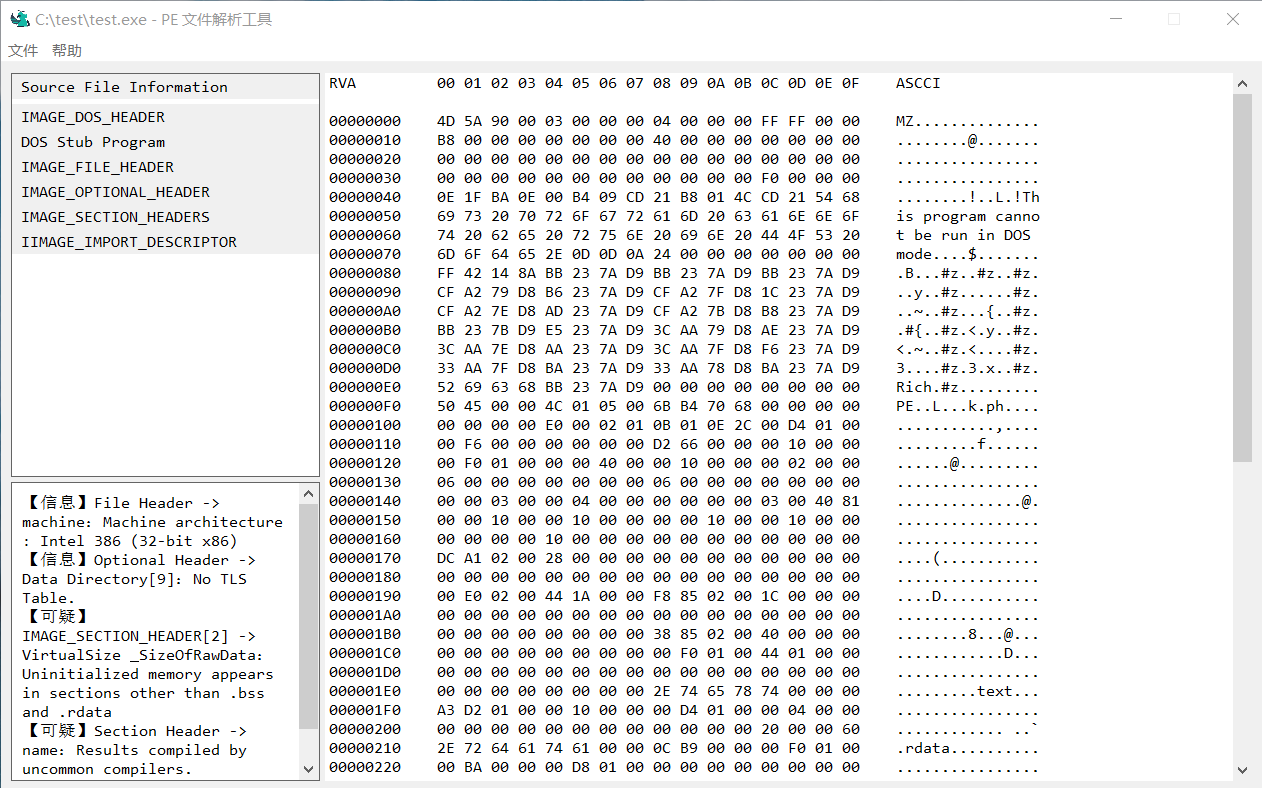
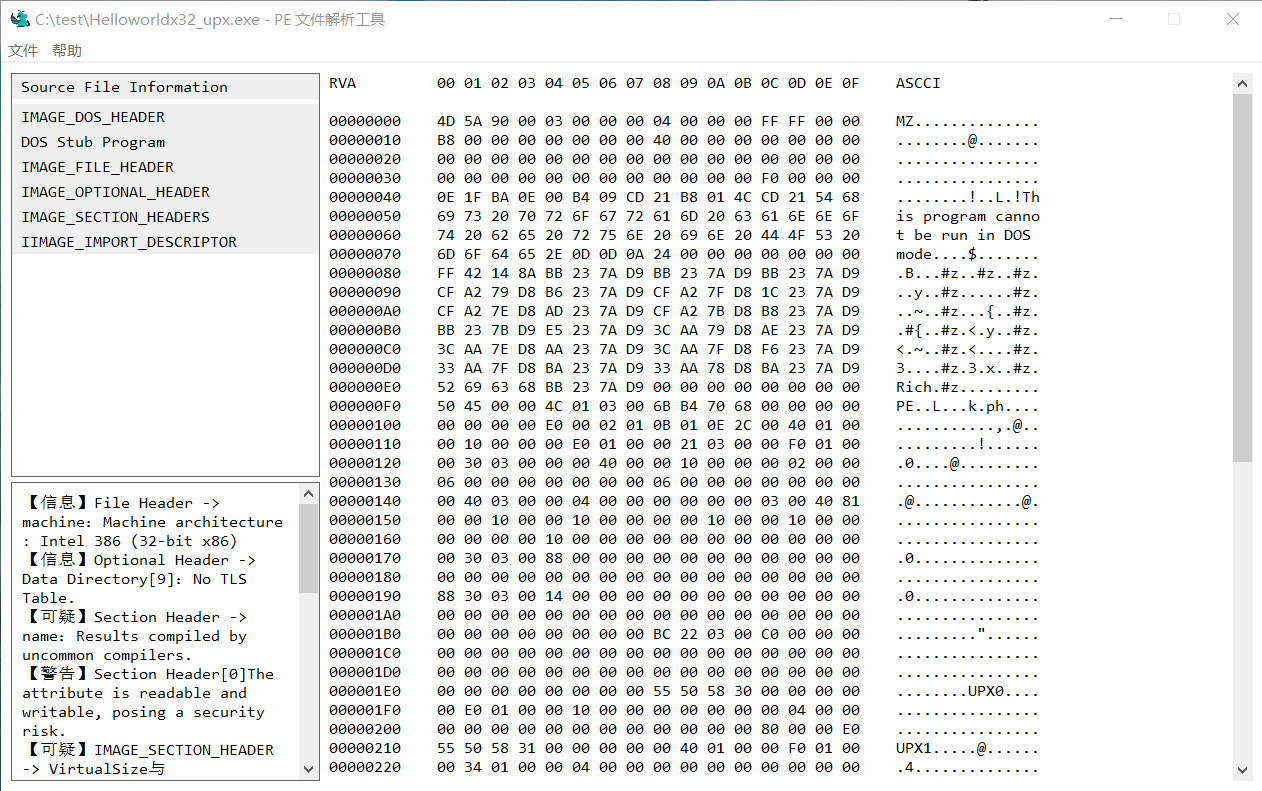
解决历史遗留的导出二进制视图无法导出整个文件问题，更改API。

diff --git a/README.en.md b/README.en.md
@@ -14,7 +14,8 @@ A PE file analysis tool written in C++, focused on security analysis, structure 
 
 ## 📸 Preview
 
-![GUI version preview](docs/images/guiout.png)
+![GUI version preview](docs/images/screenshot_gui.png)
+![TXT report preview (viewed in Notepad)](docs/images/screenshot_report.png)
 
 ## ✨ Features
 
@@ -108,7 +109,7 @@ int main() {
     
     // Export analysis report
     if (result == FundamentalAnalysis::error_code::SUCCESS) {          
-        object.data_manager.scan_report_export("C:/output.txt");
+        object.do_scan_txt_export("C:/output.txt");
         std::cout << "Analysis complete. Report exported." << std::endl;
     }
     return 0;
@@ -129,8 +130,8 @@ int main() {
 |--------|--------------|-------------|
 | `analysis_file(const std::string& path)` | `error_code` | Analyzes the PE file at the given path, returns error code indicating success/failure |
 | `summary_file()` | `ScanResultsDistribution` | Summarizes single analysis result, returns report data (does not print) |
-| `data_manager.scan_report_export(const std::string& path)` | `bool` | Exports analysis report to the specified path |
-| `data_manager.hexadecimal_document_export(const std::string& path)` | `bool` | Exports hexadecimal view data to the specified path |
+| `do_scan_txt_export(const std::string& path)` | `bool` | Exports analysis report to the specified path |
+| `do_hexadecimal_export(const std::string& path)` | `bool` | Exports hexadecimal view data to the specified path |
 | `data_manager.print_report()` | `void` | Prints single analysis report to the console |
 
 > Note: Except for `analysis_file`, all other methods must be called after `analysis_file` succeeds (returns `0`).

diff --git a/README.md b/README.md
@@ -110,7 +110,7 @@ int main() {
     
     // 导出分析报告
     if (result == FundamentalAnalysis::error_code::SUCCESS) {          
-        object.data_manager.scan_report_export("C:/output.txt");
+        object.do_scan_txt_export("C:/output.txt");
         std::cout << "分析完成，报告已导出。" << std::endl;
     }
     return 0;
@@ -129,8 +129,8 @@ int main() {
 |--------|--------------|-------------|
 | `analysis_file(const std::string& path)` | `error_code` | 分析指定路径的 PE 文件，根据分析成功与否返回错误码 |
 | `summary_file()` | `ScanResultsDistribution` | 汇总单次分析结果，返回分析报告数据（不打印） |
-| `data_manager.scan_report_export(const std::string& path)` | `bool` | 导出分析报告到指定路径 |
-| `data_manager.hexadecimal_document_export(const std::string& path)` | `bool` | 导出十六进制视图数据到指定路径 |
+| `do_scan_txt_export(const std::string& path)` | `bool` | 导出分析报告到指定路径 |
+| `do_hexadecimal_export(const std::string& path)` | `bool` | 导出十六进制视图数据到指定路径 |
 | `data_manager.print_report()` | `void` | 打印单次分析报告到控制台 |
 
 > 注意：除 `analysis_file` 外，其他方法均需在 `analysis_file` 成功（返回 `0`）后调用。
